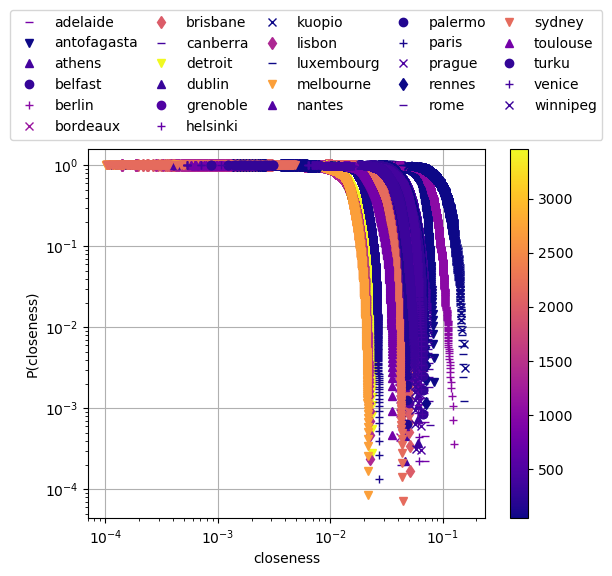
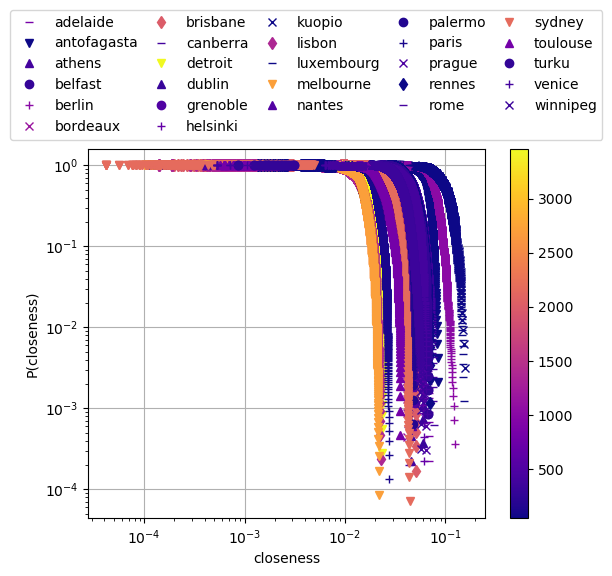
removed low_limit form ccdf plots for centrality measures

diff --git a/plot_centrality_measures.py b/plot_centrality_measures.py
@@ -21,8 +21,8 @@ if __name__ == '__main__':
 
         print('Processing ' + city + ' ...')
 
-        net = nf.create_network(city, types=types)
-        nf.plot_network(city, net)
+        # net = nf.create_network(city, types=types)
+        # nf.plot_network(city, net)
 
         ''' Load centrality measures for specific city '''
         json_path = 'results/'+city+'/centrality_measures.json'
@@ -30,47 +30,47 @@ if __name__ == '__main__':
         for k, v in centrality_measures.items():
             centrality_dict[k].append(v)
 
-        ''' Plot ccdf of all measures of centrality considered for current city '''
-        fig = nf.plot_ccdf(datavecs=list(centrality_measures.values()), labels=list(centrality_measures.keys()),
-                           xlabel='measure', ylabel='P(measure)')
-        # fig.show()
-        dir_name = './results/'+city+'/centrality_measures/'
-        if not os.path.exists(dir_name):
-            os.makedirs(dir_name)
-        fig_name = dir_name + 'ccdf_centrality_measures.png'
-        fig.savefig(fig_name)
-
-        ''' Plot correlation between degree and average betweenness centrality '''
-        fig = nf.plot_correlation_measures_log_log(x_values=[int(x) for x in degree_betweenness[city].keys()],
-                                                   y_values=list(degree_betweenness[city].values()), xlabel='k',
-                                                   ylabel='<b>', title=city)
-        dir_name = './results/' + city + '/centrality_measures/'
-        if not os.path.exists(dir_name):
-            os.makedirs(dir_name)
-        fig_name = dir_name + 'degree_betweenness_correlation.png'
-        fig.savefig(fig_name, bbox_inches='tight')
-
-        for measure, values in centrality_measures.items():
-            plt.close('all')
-
-            ''' Plot distribution of current centrality measure'''
-            fig1 = nf.plot_ccdf(datavecs=[values], labels=[measure], xlabel=measure, ylabel='P(' + measure + ')',
-                                marker='o')
-            dir_name = './results/'+city+'/centrality_measures/distributions/'
-            if not os.path.exists(dir_name):
-                os.makedirs(dir_name)
-            fig_name = dir_name+'distr_plot_'+measure+'_centrality.png'
-            fig1.savefig(fig_name)
-
-            ''' Plot network with 20% of significant nodes with color depending on value of centrality '''
-            fig2 = nf.plot_network_with_node_color_based_on_measure(net=net, measures=values,
-                                                                    title=measure+' centrality')
-            dir_name = './results/'+city+'/centrality_measures/network/'
-            if not os.path.exists(dir_name):
-                os.makedirs(dir_name)
-            fig_name = dir_name+'network_'+measure+'_centrality.png'
-            fig2.savefig(fig_name)
-            plt.close('all')
+        # ''' Plot ccdf of all measures of centrality considered for current city '''
+        # fig = nf.plot_ccdf(datavecs=list(centrality_measures.values()), labels=list(centrality_measures.keys()),
+        #                    xlabel='measure', ylabel='P(measure)')
+        # # fig.show()
+        # dir_name = './results/'+city+'/centrality_measures/'
+        # if not os.path.exists(dir_name):
+        #     os.makedirs(dir_name)
+        # fig_name = dir_name + 'ccdf_centrality_measures.png'
+        # fig.savefig(fig_name)
+        #
+        # ''' Plot correlation between degree and average betweenness centrality '''
+        # fig = nf.plot_correlation_measures_log_log(x_values=[int(x) for x in degree_betweenness[city].keys()],
+        #                                            y_values=list(degree_betweenness[city].values()), xlabel='k',
+        #                                            ylabel='<b>', title=city)
+        # dir_name = './results/' + city + '/centrality_measures/'
+        # if not os.path.exists(dir_name):
+        #     os.makedirs(dir_name)
+        # fig_name = dir_name + 'degree_betweenness_correlation.png'
+        # fig.savefig(fig_name, bbox_inches='tight')
+        #
+        # for measure, values in centrality_measures.items():
+        #     plt.close('all')
+        #
+        #     ''' Plot distribution of current centrality measure'''
+        #     fig1 = nf.plot_ccdf(datavecs=[values], labels=[measure], xlabel=measure, ylabel='P(' + measure + ')',
+        #                         marker='o')
+        #     dir_name = './results/'+city+'/centrality_measures/distributions/'
+        #     if not os.path.exists(dir_name):
+        #         os.makedirs(dir_name)
+        #     fig_name = dir_name+'distr_plot_'+measure+'_centrality.png'
+        #     fig1.savefig(fig_name)
+        #
+        #     ''' Plot network with 20% of significant nodes with color depending on value of centrality '''
+        #     fig2 = nf.plot_network_with_node_color_based_on_measure(net=net, measures=values,
+        #                                                             title=measure+' centrality')
+        #     dir_name = './results/'+city+'/centrality_measures/network/'
+        #     if not os.path.exists(dir_name):
+        #         os.makedirs(dir_name)
+        #     fig_name = dir_name+'network_'+measure+'_centrality.png'
+        #     fig2.savefig(fig_name)
+        #     plt.close('all')
 
     ''' Plot all distributions of the same centrality type for all the cities coloring with colormap the
     line depending on the area of the city and the population of it  '''
@@ -78,16 +78,16 @@ if __name__ == '__main__':
         xlabel = measure
         ylabel = 'P('+measure+')'
         labels = cities
-        # TODO see if avg the measure over the x values makes sense
+
         fig = nf.plot_multiple_ccdf_with_colorbar(values, labels, xlabel, ylabel, c=areas)
         fig_name = './results/all/plots/centrality_measures/ccdf_'+measure+'_centrality_area.png'
-        # fig.show()
         fig.savefig(fig_name, bbox_inches='tight')
+        # fig.show()
 
         fig = nf.plot_multiple_ccdf_with_colorbar(values, labels, xlabel, ylabel, c=populations)
         fig_name = './results/all/plots/centrality_measures/ccdf_' + measure + '_centrality_population.png'
-        # fig.show()
         fig.savefig(fig_name, bbox_inches='tight')
+        # fig.show()
 
     ''' Plot overall correlation degree-avg betweenness '''
     x_values, y_values = [], []

diff --git a/network_functions.py b/network_functions.py
@@ -444,10 +444,11 @@ def plot_multiple_ccdf_with_colorbar(datavecs, labels, xlabel, ylabel, c):
     fig = plt.figure()
     ax = fig.add_subplot(111)
     colors = plt.cm.plasma(get_normalized_values(c))
-    low_limit = 10**-4
+    # low_limit = 10**-4
 
     for datavec, label, marker, color in zip(datavecs, labels, markers, colors):
-        sorted_datavec = [x for x in sorted(datavec) if x > low_limit]
+        # sorted_datavec = [x for x in sorted(datavec) if x > low_limit]
+        sorted_datavec = sorted(datavec)
         cdf = np.zeros(len(sorted_datavec))
         for i, val in enumerate(sorted_datavec, 0):
             cdf[i] = val
